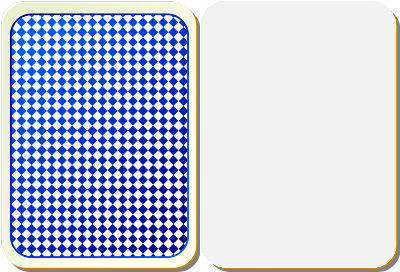
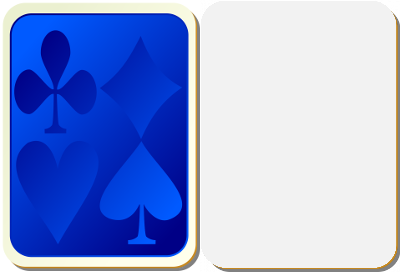
added new cards, increased performance

Changed region(s): [[0.0, 0.0, 0.51, 1.0]]

diff --git a/js/card.js b/js/card.js
@@ -108,6 +108,20 @@ function Card(id, drawX, drawY, show, rotate, player_id, key)
 	this.symbol_srcY = 0;
 	this.hide_old_cards = false;
 	
+	this.generate_canvas();
+}
+Card.prototype.generate_canvas = function()
+{
+    this.card_canvas = document.createElement('canvas');
+    this.card_canvas.width = this.width;
+    this.card_canvas.height = this.height;
+    this.card_ctx = this.card_canvas.getContext('2d');
+
+	// blank card
+	if (cards_image[this.id] == undefined || this.show == false)
+		this.card_ctx.drawImage(card_image, this.srcX, this.srcY, this.srcWidth, this.srcHeight, 0, 0, this.width, this.height);
+	else if (cards_image[this.id] != undefined)
+		this.card_ctx.drawImage(cards_image[this.id], 0, 0, this.width, this.height);
 }
 Card.prototype.draw = function()
 {
@@ -117,20 +131,29 @@ Card.prototype.draw = function()
 		main_ctx.translate(this.drawX.ratio(0) + (this.width/2).ratio(0,1), this.drawY.ratio(1) + (this.height/2).ratio(1,1));
 		main_ctx.rotate(Math.PI / this.rotate);
 		
-		// blank card
-		main_ctx.drawImage(cards_image, this.srcX, this.srcY, this.srcWidth, this.srcHeight, (-this.width / 2).ratio(0,1), (-this.height/ 2).ratio(1,1), this.width.ratio(0,1), (this.height).ratio(1,1));
 		
-		if (this.show)
+	
+		/*if (this.show)
 		{
-			// suit / symbol
-			main_ctx.drawImage(suits_image, this.symbol_srcX, this.symbol_srcY, this.symbol_srcWidth, this.symbol_srcHeight, -(this.symbol_width / 2).ratio(0,1), -(this.symbol_height / 2).ratio(1,1), this.symbol_width.ratio(0,1), this.symbol_height.ratio(1,1));
-			
-			// name
-			if (this.symbol == "heart" || this.symbol == "diamond")
-				main_ctx.fillStyle = "#a31919";
+			if (cards_image[this.id] != undefined)
+			{
+				this.card_ctx.drawImage(cards_image[this.id], 0, 0, this.width, this.height);
+			}
 			else
-				main_ctx.fillStyle = "black";
-		}
+			{
+				// suit / symbol
+				this.card_ctx.drawImage(suits_image, this.symbol_srcX, this.symbol_srcY, this.symbol_srcWidth, this.symbol_srcHeight, -(this.symbol_width / 2).ratio(0,1), -(this.symbol_height / 2).ratio(1,1), this.symbol_width.ratio(0,1), this.symbol_height.ratio(1,1));
+				
+				// name
+				if (this.symbol == "heart" || this.symbol == "diamond")
+					main_ctx.fillStyle = "#a31919";
+				else
+					main_ctx.fillStyle = "black";
+			}
+			
+			
+		}*/
+		main_ctx.drawImage(this.card_canvas, (-this.width / 2).ratio(0,1), (-this.height / 2).ratio(1,1), this.width.ratio(0,1), this.height.ratio(1,1));
 
 		if (
 				(!this.is_moving || this.moving_action == "fix")
@@ -209,14 +232,15 @@ Card.prototype.draw = function()
 			this.is_down = false;
 		}
 		
-		if (this.show)
+		/*
+		if (this.show && cards_image[this.id] == undefined)
 		{
 			//name
 			main_ctx.textBaseline = "top";
 			main_ctx.textAlign = "left";
 			main_ctx.font = (15).ratio(0,1) + "px Arial";
 			main_ctx.fillText(this.name, -(this.width / 2 - 5).ratio(0,1), -(this.height / 2 - 5).ratio(1,1));
-		}
+		}*/
 		
 		if (this.is_moving)
 		{
@@ -323,6 +347,7 @@ Card.prototype.play = function(no_new_turn, offsetX, is_ai, not_first_card)
 	this.height = this.original_height;
 	this.srcX = 200;
 	this.show = true;
+	this.generate_canvas();
 	
 	if (this.player_id == 0 && is_multiplayer && not_first_card !== true && players[0].enable_multiplayer == false)
 	{
@@ -369,6 +394,7 @@ function hide_cards()
 		table_cards[i].height = card.original_height / 2;
 		table_cards[i].srcX = 0;
 		table_cards[i].done = true;
+		table_cards[i].generate_canvas();
 	}
 	
 	for (var i = 0; i < players.length; i++)

diff --git a/js/load.js b/js/load.js
@@ -13,8 +13,8 @@ function load_media()
 	background_image = new Image();
 	background_image.src = "js/images/game_background.png";
 	
-	cards_image = new Image();
-	cards_image.src = "js/images/cards.png";
+	card_image = new Image();
+	card_image.src = "js/images/cards.png";
 	
 	suits_image = new Image();
 	suits_image.src = "js/images/suits.png";
@@ -30,4 +30,11 @@ function load_media()
 	
 	arrow_image = new Image();
 	arrow_image.src = "js/images/arrow_down.png";
+	
+	cards_image = [];
+	for (var i = 0; i <= 31; i++)
+	{
+		cards_image[i] = new Image();
+		cards_image[i].src = "js/images/cards/" + i + ".png";
+	}
 }
